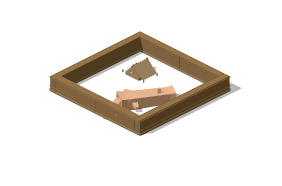
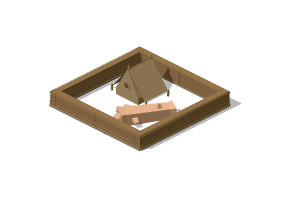
art: polish Turks ages 0-3 (approved at review point 2)
Seljuk lumber and mining camps get a tall hide tent so the early drop-sites
read as camps, not empty yards, at game scale.

Changed region(s): [[0.1702, 0.1613, 0.8511, 0.7527]]

diff --git a/game/art/kenney/manifest.js b/game/art/kenney/manifest.js
@@ -1003,16 +1003,16 @@ const KENNEY_ART = {
  },
  "lumbercamp_turks_0": {
   "w": 141,
-  "h": 93,
+  "h": 101,
   "ax": 70,
-  "ay": 45.3,
+  "ay": 52.92,
   "SC": 2
  },
  "lumbercamp_turks_1": {
   "w": 141,
-  "h": 93,
+  "h": 101,
   "ax": 70,
-  "ay": 45.3,
+  "ay": 52.92,
   "SC": 2
  },
  "lumbercamp_turks_2": {
@@ -1031,14 +1031,14 @@ const KENNEY_ART = {
  },
  "miningcamp_turks_0": {
   "w": 141,
-  "h": 106,
+  "h": 107,
   "ax": 70,
   "ay": 58.72,
   "SC": 2
  },
  "miningcamp_turks_1": {
   "w": 141,
-  "h": 106,
+  "h": 107,
   "ax": 70,
   "ay": 58.72,
   "SC": 2
